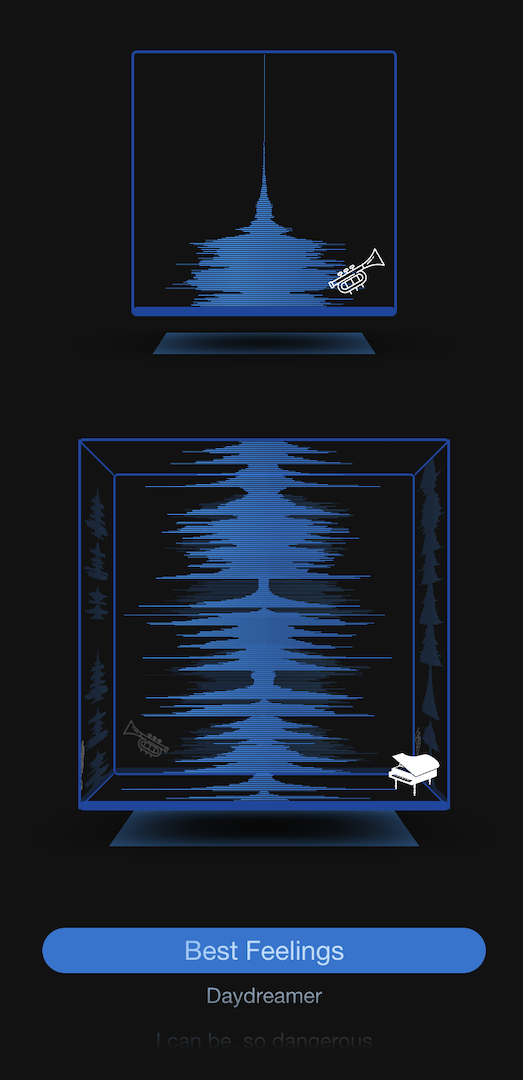
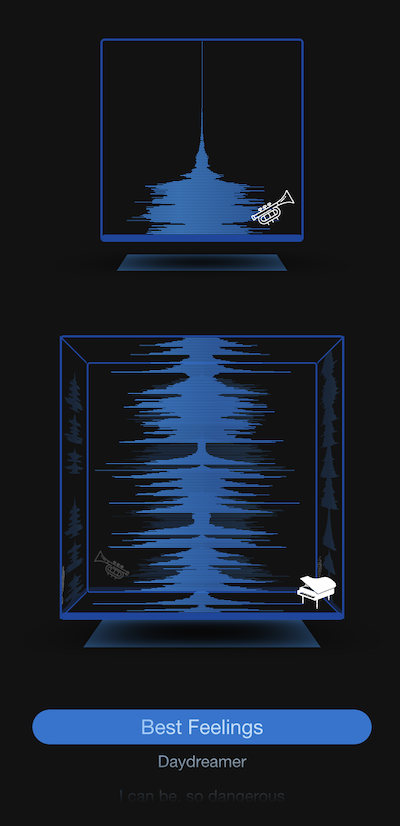
Resize the img

diff --git a/README.md b/README.md
@@ -2,4 +2,4 @@ Music is Love and brings the Inner Creative out of us.
 
 This projects aim to make Music Production accessible to everyone & Connect The World through Sound.
 
-![Musical Cubes](./img/demo.png =200x500)
+![Musical Cubes](./img/demo.png)
